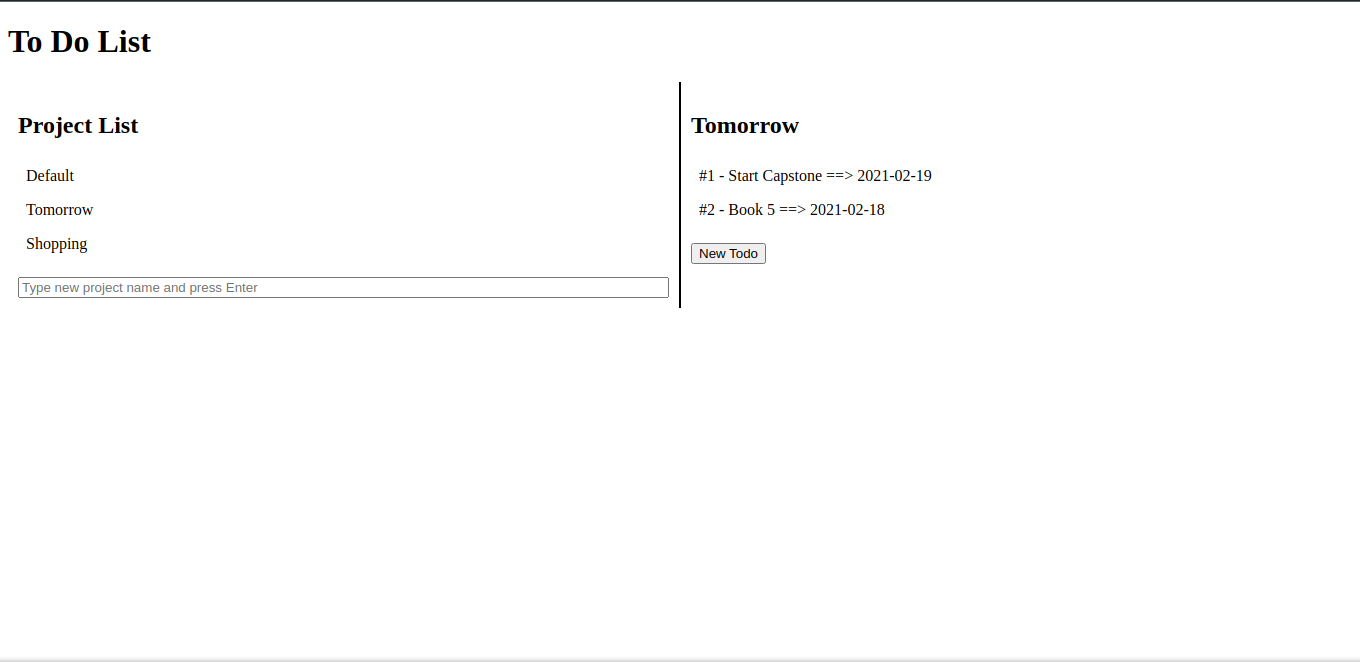
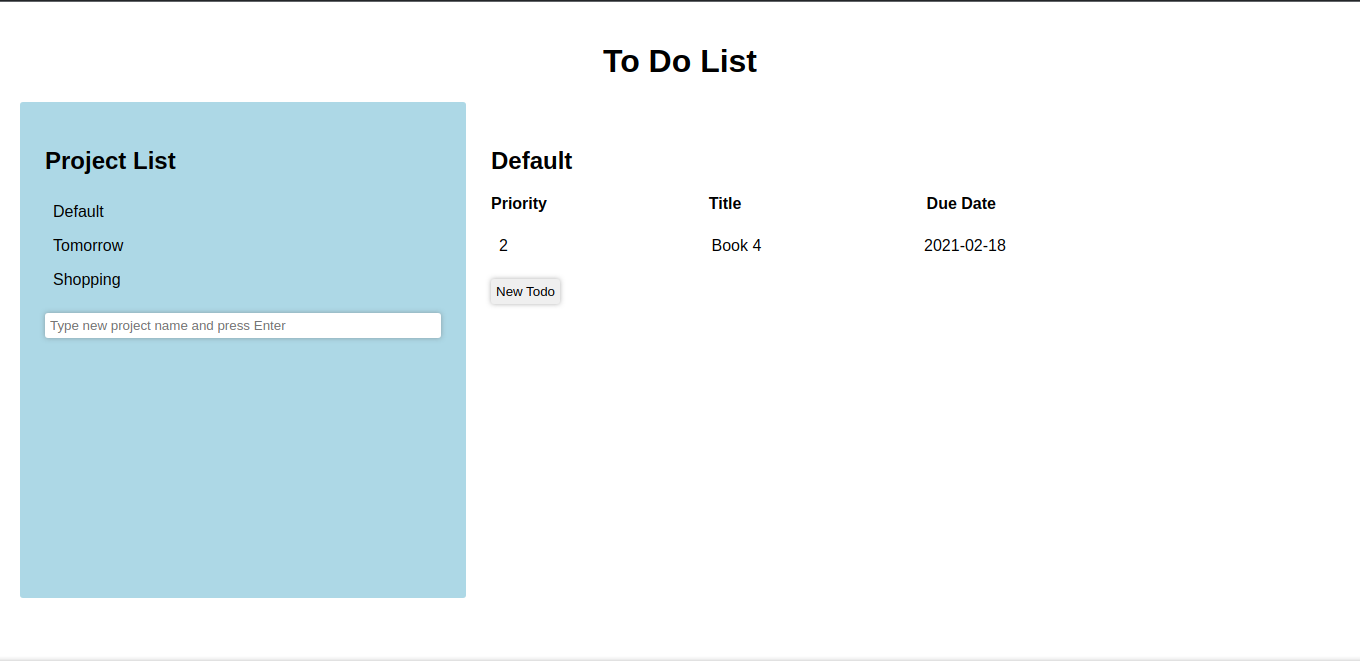
Update style

diff --git a/dist/style.css b/dist/style.css
@@ -1,28 +1,82 @@
 form {
   display: flex;
-  flex-direction: column; }
-  form.todo-form {
-    align-items: center; }
-    form.todo-form * {
-      width: 50%;
-      margin: 4px; }
+  flex-direction: column;
+}
+form.todo-form {
+  align-items: center;
+}
+form.todo-form * {
+  width: 50%;
+  margin: 4px;
+}
 
 ul {
-  padding: 0; }
-  ul li {
-    cursor: pointer;
-    padding: 8px;
-    list-style-type: none;
-    border-radius: 3px; }
-    ul li:hover {
-      background-color: lightgrey; }
+  padding: 0;
+}
+ul li {
+  cursor: pointer;
+  padding: 8px;
+  list-style-type: none;
+  border-radius: 3px;
+  display: flex;
+}
+ul li:hover {
+  background-color: lightgrey;
+}
+ul li span {
+  width: 33%;
+}
 
 .container {
-  display: flex; }
-  .container > div {
-    width: 50%;
-    padding: 10px; }
-    .container > div:first-child {
-      border-right: 2px solid black; }
+  display: flex;
+  height: 80%;
+}
+.container > div {
+  padding: 25px;
+}
+.container > div:last-child {
+  width: 50%;
+}
+.container > div:last-child > div {
+  display: flex;
+}
+.container > div:last-child > div b {
+  width: 33%;
+}
+.container > div:first-child {
+  width: 30%;
+  border-radius: 3px;
+  background-color: lightblue;
+}
+
+input,
+button {
+  padding: 5px;
+  border: 0;
+  border-radius: 3px;
+  box-shadow: 0 0 5px 0 rgba(100, 100, 100, 0.5);
+}
+
+button {
+  cursor: pointer;
+}
+
+body {
+  display: flex;
+  height: 100vh;
+  margin: 0;
+  box-sizing: border-box;
+  font-family: Arial, Helvetica, sans-serif;
+}
+
+.content {
+  width: 100%;
+  padding: 20px;
+}
+
+h1 {
+  display: flex;
+  justify-content: center;
+}
 
 /*# sourceMappingURL=style.css.map */

diff --git a/src/style.scss b/src/style.scss
@@ -20,22 +20,71 @@ ul {
     padding: 8px;
     list-style-type: none;
     border-radius: 3px;
+    display: flex;
 
     &:hover {
       background-color: lightgrey;
+    }
+
+    span {
+      width: 33%;
     }
   }
 }
 
 .container {
   display: flex;
+  height: 80%;
 
   & > div {
-    width: 50%;
-    padding: 10px;
+    padding: 25px;
+
+    &:last-child {
+      width: 50%;
+
+      & > div {
+        display: flex;
+
+        b {
+          width: 33%;
+        }
+      }
+    }
 
     &:first-child {
-      border-right: 2px solid black;
+      width: 30%;
+      border-radius: 3px;
+      background-color: lightblue;
     }
   }
+}
+
+input,
+button {
+  padding: 5px;
+  border: 0;
+  border-radius: 3px;
+  box-shadow: 0 0 5px 0 rgba(100, 100, 100, 0.5);
+}
+
+button {
+  cursor: pointer;
+}
+
+body {
+  display: flex;
+  height: 100vh;
+  margin: 0;
+  box-sizing: border-box;
+  font-family: Arial, Helvetica, sans-serif;
+}
+
+.content {
+  width: 100%;
+  padding: 20px;
+}
+
+h1 {
+  display: flex;
+  justify-content: center;
 }

diff --git a/dist/index.html b/dist/index.html
@@ -7,7 +7,7 @@
   <title>To Do List</title>
 </head>
 <body>
-  <div id="content"></div>
+  <div id="content" class="content"></div>
 </body>
 <script src="main.js"></script>
 </html>
